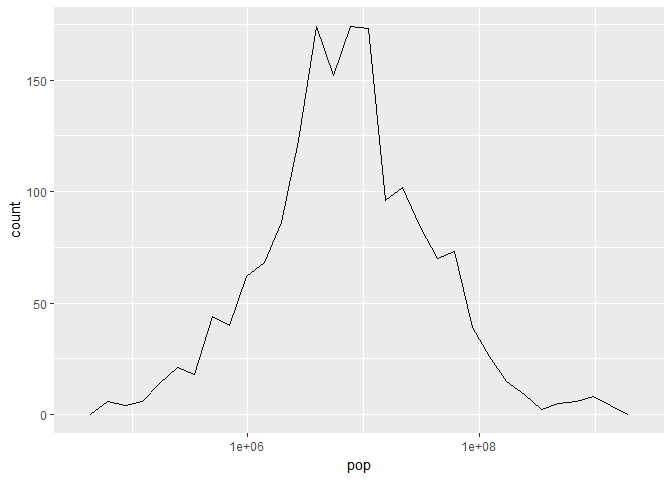
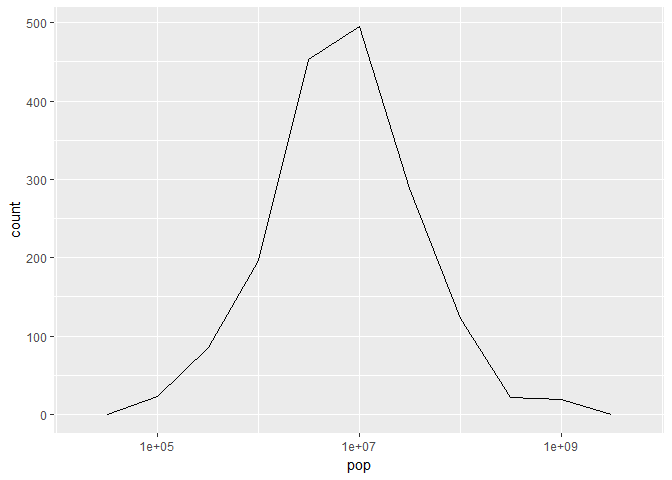
plot binwidth change...

diff --git a/hw02/hw02_gapminder.md b/hw02/hw02_gapminder.md
@@ -570,12 +570,8 @@ Different Plots of pop variable
 
 ``` r
 m<-ggplot(gapminder,aes(pop))
-m + geom_histogram(binwdith=0.5) + scale_x_log10() #histogram plot
+m + geom_histogram(binwidth=0.5) + scale_x_log10() #histogram plot
 ```
-
-    ## Warning: Ignoring unknown parameters: binwdith
-
-    ## `stat_bin()` using `bins = 30`. Pick better value with `binwidth`.
 
 ![](hw02_gapminder_files/figure-markdown_github-ascii_identifiers/unnamed-chunk-21-1.png)
 
@@ -586,10 +582,8 @@ m + scale_x_log10() + geom_density(kernel="gaussian") #density plot
 ![](hw02_gapminder_files/figure-markdown_github-ascii_identifiers/unnamed-chunk-21-2.png)
 
 ``` r
-m + scale_x_log10() + geom_freqpoly() #freq poly plot
+m + scale_x_log10() + geom_freqpoly(binwidth=0.5) #freq poly plot
 ```
-
-    ## `stat_bin()` using `bins = 30`. Pick better value with `binwidth`.
 
 ![](hw02_gapminder_files/figure-markdown_github-ascii_identifiers/unnamed-chunk-21-3.png)
 
